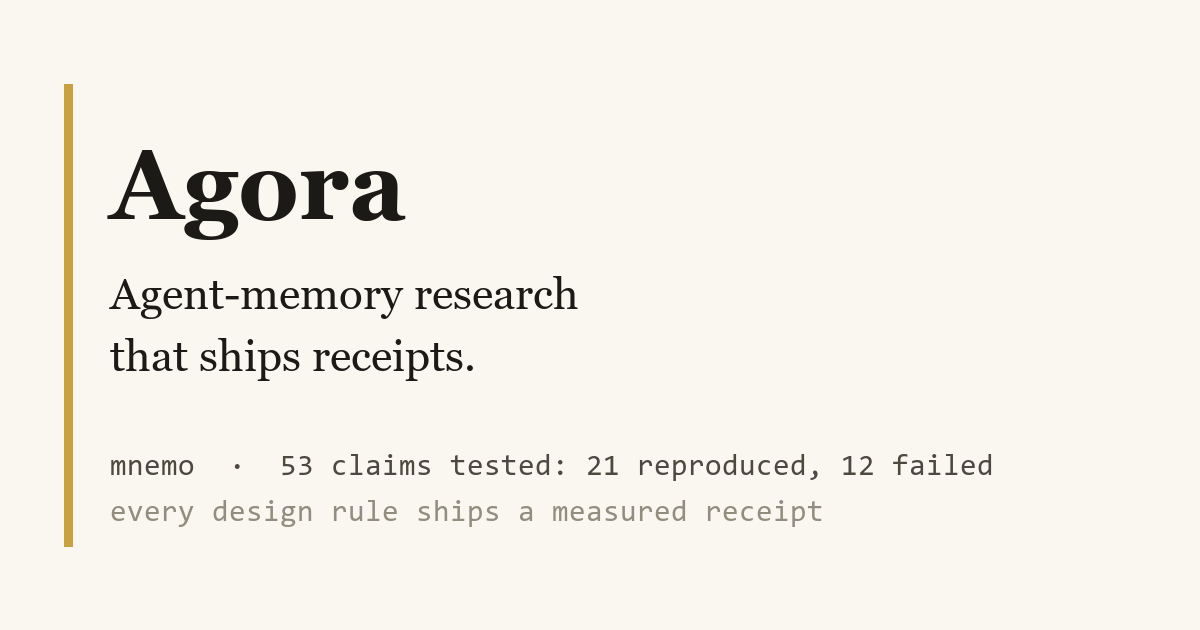
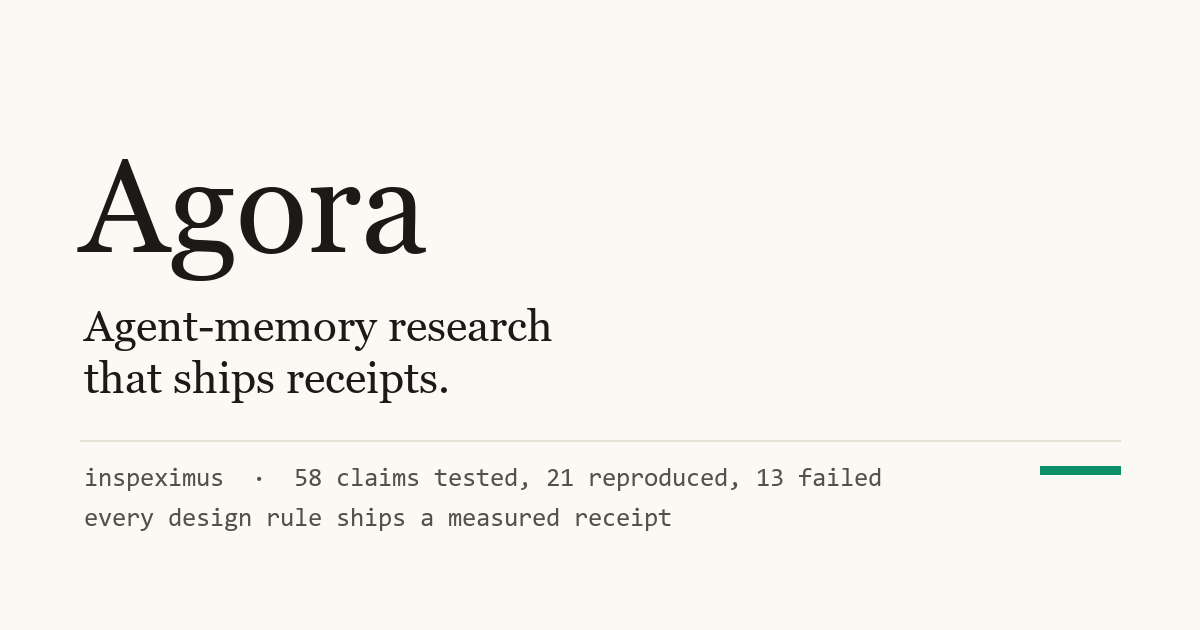
storefront: the homepage share card is rendered from the ledger, and the deploy checks it
public/og-card.png from 2026-07-12 still carried the product's old name and
was the image LinkedIn showed for the whole site (seen in a Featured card on
2026-09-18). tools/og_card.py renders it from crucible.json (58 tested, 21
reproduced, 13 failed today) in the storefront's paper and ink, writes a
stamp of the counts, and --check fails the deploy when the stamp and the
ledger disagree.

(cherry picked from commit aa38654074f32544780ae6c19341bf27838fd6bc)

Changed region(s): [[0.0308, 0.1206, 0.9558, 0.8746]]

diff --git a/tools/og_card.py b/tools/og_card.py
@@ -1,0 +1,82 @@
+#!/usr/bin/env python3
+"""Render public/og-card.png, the homepage's 1200 x 630 share image, from the live Crucible ledger.
+
+The card that sat here from 2026-07-12 carried the product's old name and counts frozen at
+render time; a stale image is what LinkedIn, X and Slack show for the whole site, and nobody
+reads an image in a review. This script reads the counts from public/crucible/crucible.json so
+the card cannot disagree with the ledger, and the deploy gate can compare the two.
+
+    python tools/og_card.py            write public/og-card.png
+    python tools/og_card.py --check    exit 1 when the card's recorded counts differ from the ledger
+
+Design: the storefront's paper and ink, the serif wordmark, one mono line. No gradients, no
+glow, no icons (owner rule).
+"""
+from __future__ import annotations
+
+import collections
+import json
+import sys
+from pathlib import Path
+
+from PIL import Image, ImageDraw, ImageFont
+
+ROOT = Path(__file__).resolve().parents[1]
+CARD = ROOT / "public" / "og-card.png"
+STAMP = ROOT / "public" / "og-card.json"
+LEDGER = ROOT / "public" / "crucible" / "crucible.json"
+W, H = 1200, 630
+PAPER, INK, SOFT, ACC, LINE = "#fbf9f4", "#1b1a17", "#54514a", "#0a8f68", "#e6e1d6"
+
+
+def counts() -> dict:
+    d = json.loads(LEDGER.read_text(encoding="utf-8"))
+    items = d if isinstance(d, list) else next((v for v in d.values() if isinstance(v, list)), [])
+    c = collections.Counter((i.get("verdict") or i.get("status") or "?") for i in items)
+    return {"tested": len(items), "reproduced": c.get("REPRODUCED", 0), "failed": c.get("FAILED", 0)}
+
+
+def _font(names: list[str], size: int) -> ImageFont.FreeTypeFont:
+    for n in names:
+        for d in (Path("C:/Windows/Fonts"), Path.home() / "AppData/Local/Microsoft/Windows/Fonts"):
+            p = d / n
+            if p.exists():
+                return ImageFont.truetype(str(p), size)
+    return ImageFont.load_default(size)
+
+
+def render(c: dict) -> Image.Image:
+    im = Image.new("RGB", (W, H), PAPER)
+    dr = ImageDraw.Draw(im)
+    serif = _font(["georgia.ttf", "times.ttf"], 132)
+    serif_s = _font(["georgia.ttf", "times.ttf"], 44)
+    mono = _font(["consola.ttf", "cour.ttf"], 26)
+    dr.text((80, 130), "Agora", font=serif, fill=INK)
+    dr.text((84, 300), "Agent-memory research", font=serif_s, fill=INK)
+    dr.text((84, 352), "that ships receipts.", font=serif_s, fill=INK)
+    dr.line([(80, 440), (1120, 440)], fill=LINE, width=2)
+    line1 = f"inspeximus  \u00b7  {c['tested']} claims tested, {c['reproduced']} reproduced, {c['failed']} failed"
+    line2 = "every design rule ships a measured receipt"
+    dr.text((84, 466), line1, font=mono, fill=SOFT)
+    dr.text((84, 506), line2, font=mono, fill=SOFT)
+    dr.rectangle([(1040, 466), (1120, 474)], fill=ACC)
+    return im
+
+
+def main() -> int:
+    c = counts()
+    if "--check" in sys.argv:
+        if not STAMP.exists():
+            print("og-card: no stamp; run tools/og_card.py"); return 1
+        s = json.loads(STAMP.read_text(encoding="utf-8"))
+        if s != c:
+            print(f"og-card: card says {s}, ledger says {c}; run tools/og_card.py"); return 1
+        print("og-card: counts match the ledger"); return 0
+    render(c).save(CARD, optimize=True)
+    STAMP.write_text(json.dumps(c), encoding="utf-8")
+    print(f"wrote {CARD} {c}")
+    return 0
+
+
+if __name__ == "__main__":
+    sys.exit(main())
